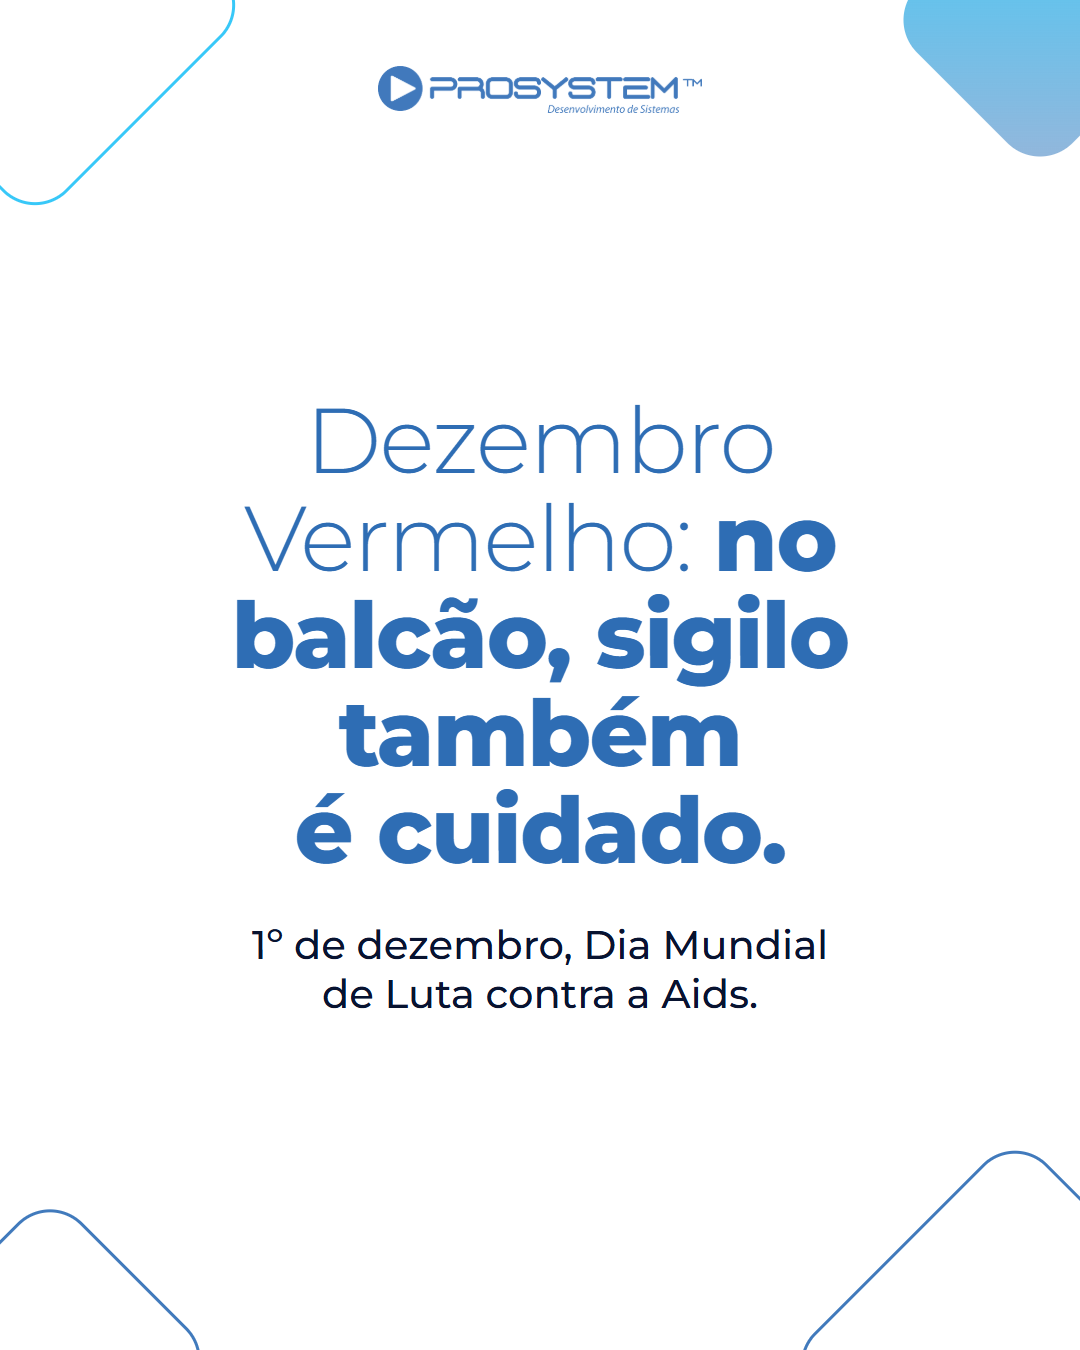
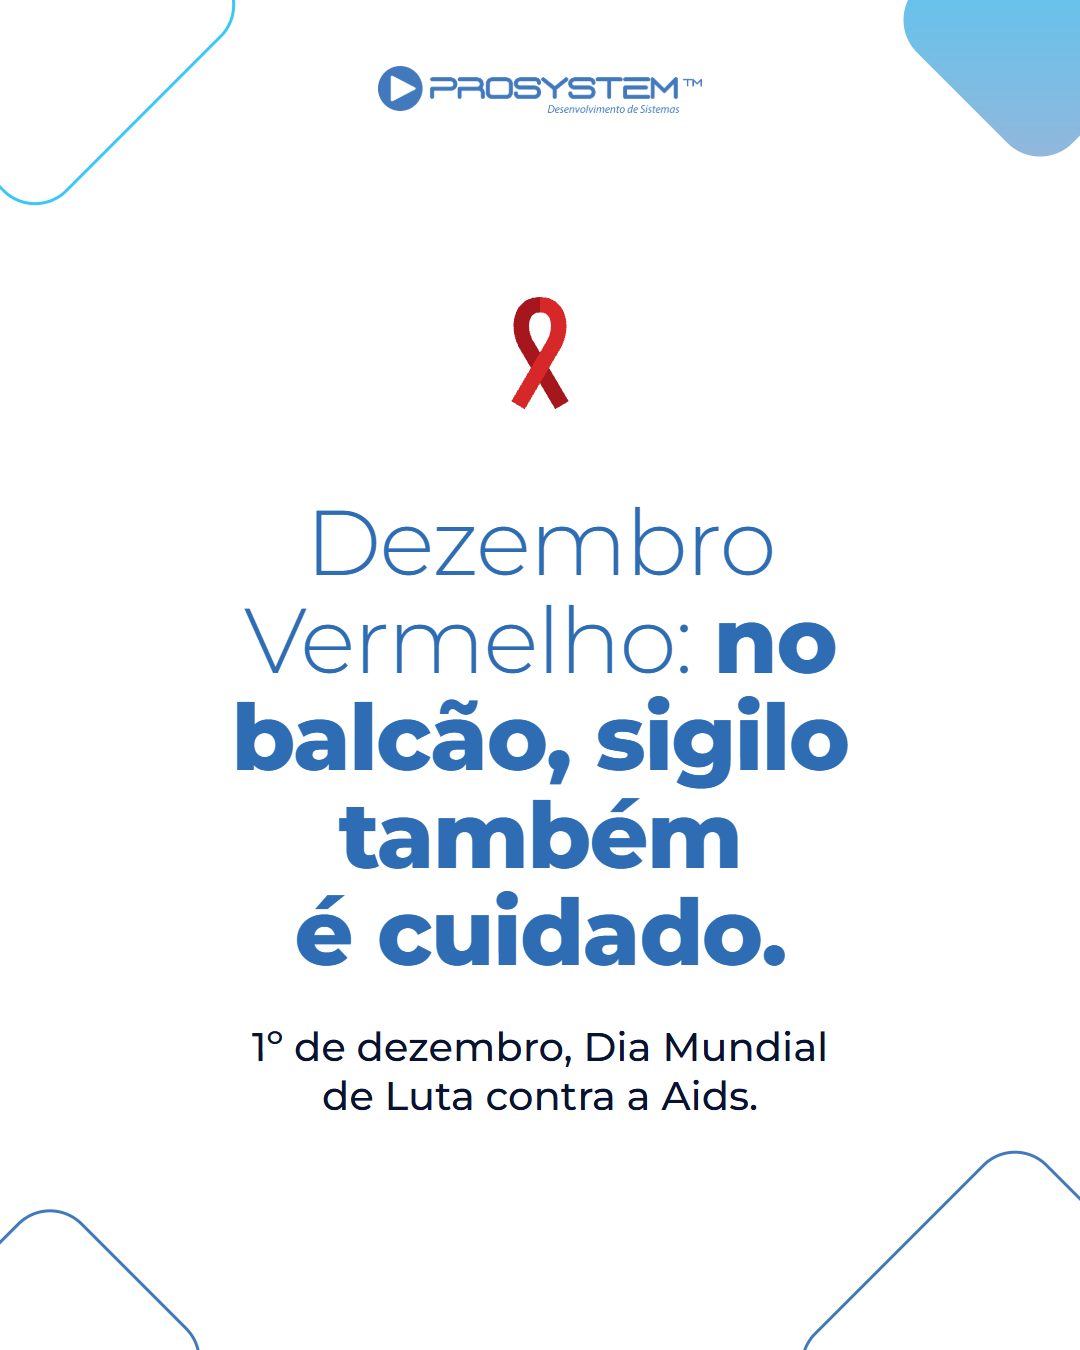
Laço vermelho na peça do Dezembro Vermelho (01/12)

Changed region(s): [[0.2139, 0.2178, 0.7944, 0.84], [0.3056, 0.28, 0.3361, 0.3111], [0.275, 0.3111, 0.3056, 0.3422]]

diff --git a/outputs/criativos/nov-dez/pecas-dados.js b/outputs/criativos/nov-dez/pecas-dados.js
@@ -291,12 +291,12 @@ ${CTA}`,
   alts: ['Mosquito pousado na pele, com o texto: Dia de Combate à Dengue, o repelente está na sua prateleira?'],
   conferir: ['Produto: a Sugestão de compras segue como na base?', 'O dia 21/11 é conta nossa: penúltimo sábado de novembro, conforme a Lei 12.235/2010.', 'O nome legal é Dia Nacional de Combate à Dengue; a arte encurta para caber.'] },
 
-{ data: 'Ter 01/12', seg: 'Farmácia', id: 'frase-dezembro-vermelho-v2', tipo: 'frase', tema: 'azul', formato: 'Frase de impacto', nova: true, semAno: true, fs: 92,
+{ data: 'Ter 01/12', seg: 'Farmácia', id: 'frase-dezembro-vermelho-v2', tipo: 'frase', tema: 'azul', formato: 'Frase de impacto', nova: true, semAno: true, fs: 92, laco: 'vermelho',
   titulo: 'Dezembro Vermelho: <b>no balcão, sigilo também é cuidado.</b>', apoio: '1º de dezembro, Dia Mundial<br>de Luta contra a Aids.',
   kw: '',
   cap: 'Hoje é o Dia Mundial de Luta contra a Aids, e começa o Dezembro Vermelho.\n\nNa farmácia, cuidado também é falar baixo, atender com discrição e tratar cada compra com respeito. Quem entra na sua loja precisa se sentir seguro para pedir o que precisa.\n\nAtendimento discreto também é o que faz o cliente voltar.',
   tags: '#dezembrovermelho #farmacia #atendimento',
-  alts: ['Frase em azul sobre fundo branco: Dezembro Vermelho, no balcão, sigilo também é cuidado.'],
+  alts: ['Laço vermelho e frase em azul sobre fundo branco: Dezembro Vermelho, no balcão, sigilo também é cuidado.'],
   conferir: ['Data de saúde: a Jessica deve dizer se combina com a marca.'] },
 
 { data: 'Qua 13/01', seg: 'Os dois', id: 'frase-janeiro-branco-v1', tipo: 'frase', tema: 'azul', formato: 'Frase de impacto', nova: true, semAno: true, fs: 88,

diff --git a/outputs/criativos/nov-dez/gerar.js b/outputs/criativos/nov-dez/gerar.js
@@ -102,7 +102,9 @@ function v3(c) {
   return out;
 }
 
-const frase = (c) => [pg(c.tema, 'bra', `${lo(1)}${logo(1)}<div class="frs"><h4${c.fs ? ` style="font-size:${px(c.fs)}"` : ''}>${c.titulo}</h4><p>${c.apoio}</p></div>`)];
+// Laço vermelho do Dezembro Vermelho, acima do título da frase.
+const LACO_VERMELHO = `<svg viewBox="0 0 100 140" style="width:${px(92)};height:${px(128)};fill:none;stroke-width:17;margin:0 auto ${px(36)};flex:none"><path d="M50 16C29 16 25 40 34 58L74 126" stroke="#a5161d"/><path d="M50 16C71 16 75 40 66 58L26 126" stroke="#d62828"/></svg>`;
+const frase = (c) => [pg(c.tema, 'bra', `${lo(1)}${logo(1)}<div class="frs">${c.laco === 'vermelho' ? LACO_VERMELHO : ''}<h4${c.fs ? ` style="font-size:${px(c.fs)}"` : ''}>${c.titulo}</h4><p>${c.apoio}</p></div>`)];
 // Título, tela, faixa e pílula. Três blocos de texto, como pede o caderno.
 function comTela(c) {
   const cl = c.fundo === 'bra' ? 'bra' : 'forte sob';

diff --git a/docs/contexto/relatorios/2026-11-03-post-dezembro-vermelho-apoio.md b/docs/contexto/relatorios/2026-11-03-post-dezembro-vermelho-apoio.md
@@ -21,3 +21,29 @@ A Jessica pediu para melhorar o post `frase-dezembro-vermelho-v2`, tirando "Comp
 
 ## Pendente
 - A Jessica aprovar a arte (decide: Jessica).
+
+---
+
+## Continuação: laço vermelho na arte
+
+### Pedido
+"coloque o simbolo do dezembro vermelho" na peça `frase-dezembro-vermelho-v2`.
+
+### Feito
+- `outputs/criativos/nov-dez/gerar.js`: novo `LACO_VERMELHO` (mesmo desenho do laço do Novembro Azul, em dois vermelhos, sem o selo branco) e o tipo `frase` passa a aceitar `laco: 'vermelho'`, que põe o laço centralizado acima do título.
+- `outputs/criativos/nov-dez/pecas-dados.js`: `laco: 'vermelho'` na peça e texto alternativo citando o laço.
+- PNG gerado de novo: `outputs/criativos/nov-dez/pecas/frase-dezembro-vermelho-v2.png`.
+
+### Verificado
+- `node gerar.js frase-dezembro-vermelho-v2`: "sem estouro". Abri o PNG: laço vermelho acima do título, texto intacto.
+- Não verificado: `legendas.md` não foi regenerado (a legenda não mudou) e a galeria/Claude Docs não foram atualizados.
+
+### Decisões e porquês
+- Laço solto sobre o branco, sem o círculo branco do Novembro Azul: aqui o fundo já é branco e o círculo não apareceria.
+- O vermelho fica só no símbolo; o texto continua azul da marca.
+
+### Pendente
+- A Jessica aprovar a arte com o laço (decide: Jessica).
+
+### Próxima sessão
+- Se ela pedir ajuste de tamanho/posição do laço, mexer em `LACO_VERMELHO` em `gerar.js` e rodar `node gerar.js frase-dezembro-vermelho-v2`.
